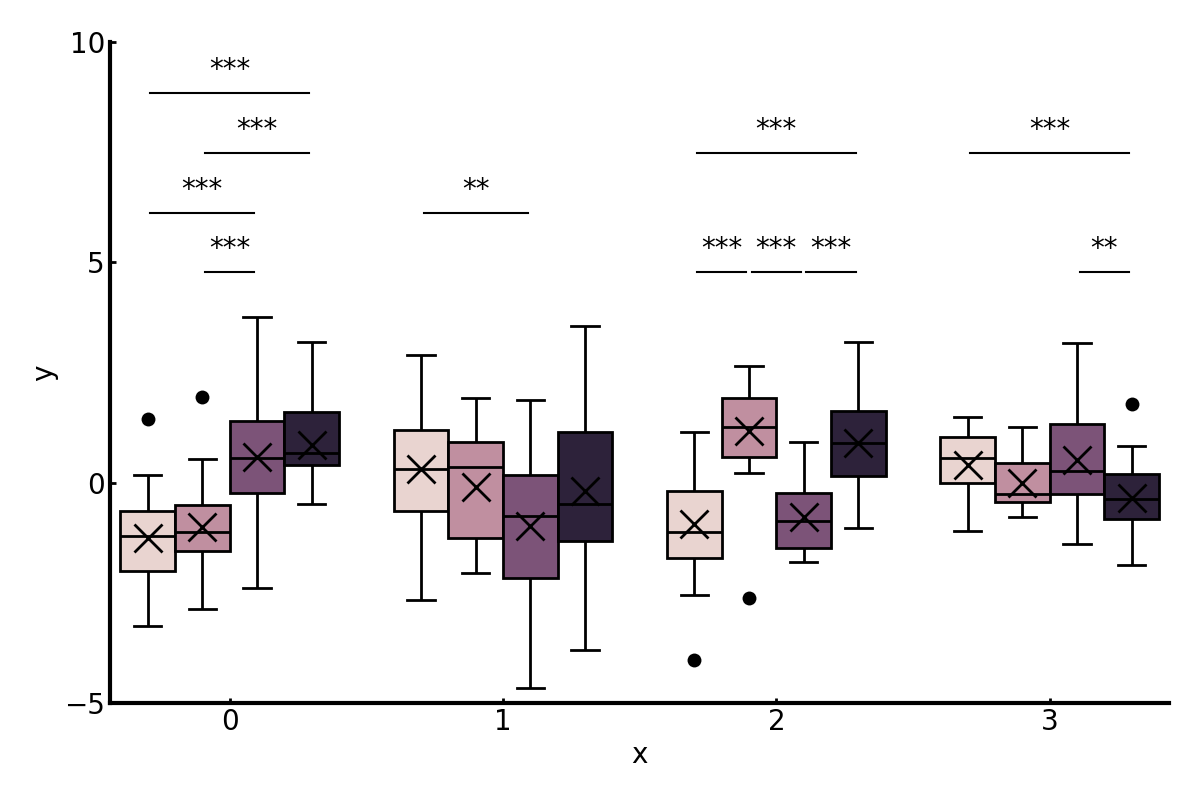
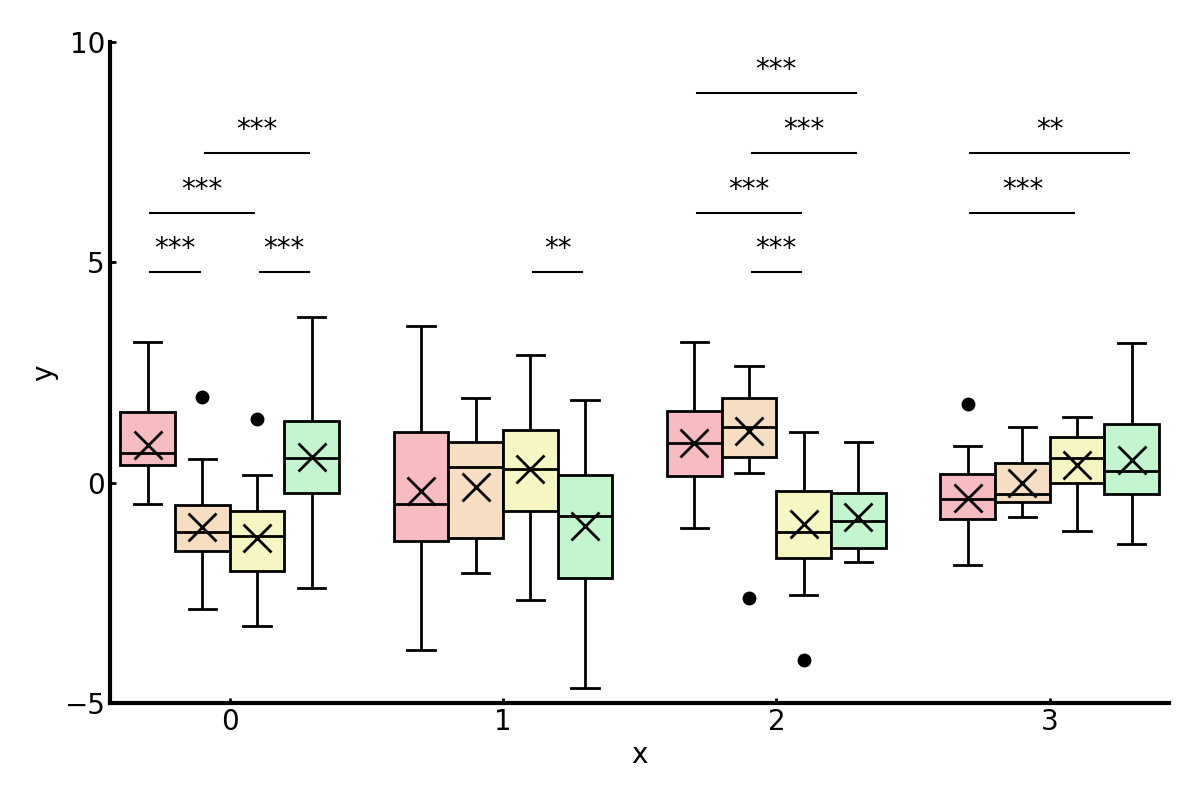
add functions

diff --git a/plot.py b/plot.py
@@ -38,14 +38,7 @@ class Stat:
         self.stat_name = stat_name
         self.adjust_name = adjust_name
         self.stat_mark = stat_mark
-
-    def get_unigue(self, df, i, sort=True):
-        i, indexes = np.unique(df[i].values, return_index=True)
-        indexes = np.argsort(indexes)
-        if sort:
-            return i[indexes]
-        else:
-            return i
+        
     def sort(self, l_hues):
         combinations = list(itertools.combinations(l_hues, 2))
         sorted_combinations = sorted(combinations, key=lambda pair: abs(pair[0] - pair[1]))
@@ -102,14 +95,13 @@ class Stat:
         return adjusted_points
 
     def calc(self, df, x, y, hue, width=0.8):
-        xs = self.get_unigue(df, x, sort=False)
-        hues = self.get_unigue(df, hue, sort=False)
+        xs = get_unigue(df, x, sort=True)
+        hues = get_unigue(df, hue, sort=True)
         n_hue = len(hues)
         l_hues = np.arange(n_hue)
         c_hues = self.sort(l_hues)
 
         l_p = []
-
         for i, name_x in enumerate(xs):
             for i1, i2 in c_hues:
                 df_tmp = df[df[x] == name_x].copy()
@@ -134,7 +126,16 @@ class Stat:
                 i_mark +=1
         
         return self.adjust_level(annot_stat)
-        
+
+def get_unigue(df, i, sort=True):
+    i, indexes = np.unique(df[i].values, return_index=True)
+    i = np.array([str(s_i) for s_i in i])
+    indexes = np.argsort(indexes)
+    if sort:
+        return i[indexes]
+    else:
+        return i
+
 
 def lookup_p(p, mark):
     if p < 0.001:
@@ -221,11 +222,20 @@ class PLOT:
         if y_const is not None:
             ax.axhline(y=y_const, c="b", linewidth=3)
         
+        xs = get_unigue(df, x, sort=True)
+
+        hue_order = None
+        if hue is not None:
+            hue_order = get_unigue(df, hue, sort=True)
+        df[x] = df[x].astype(str)
+        df[hue] = df[hue].astype(str)
+        
         if kind !="|":
             x, y = y, x
+            xs = None
 
         sns.set_palette(color)
-        sns.boxplot(x=x, y=y, data=df, hue=hue, ax=ax, linewidth=2, width=0.8,
+        sns.boxplot(x=x, y=y, data=df, hue=hue, order=xs, hue_order=hue_order, ax=ax, linewidth=2, width=0.8, 
                         showmeans=True,
                         flierprops=dict(marker='o',
                                         markersize=10,
@@ -301,14 +311,23 @@ class PLOT:
         if y_const is not None:
             ax.axhline(y=y_const, c="b", linewidth=3)
 
+        xs = get_unigue(df, x, sort=True)
+
+        hue_order = None
+        if hue is not None:
+            hue_order = get_unigue(df, hue, sort=True)
+        df[x] = df[x].astype(str)
+        df[hue] = df[hue].astype(str)
+        
         if kind !="|":
             x, y = y, x
+            xs = None
         
         sns.set_palette(color)
         if stacked:
             df.plot(kind="bar", stacked=stacked, ax=ax, color=color)
         else:
-            sns.barplot(x=x, y=y, data=df, hue=hue, ax=ax, errorbar=errorbar, capsize=0.05)
+            sns.barplot(x=x, y=y, data=df, hue=hue, ax=ax, order=xs, hue_order=hue_order, errorbar=errorbar, capsize=0.05)
 
         ax = self.range(ax,xticks=xticks, yticks=yticks, zero_start=zero_start)
 

diff --git a/test.py b/test.py
@@ -11,8 +11,9 @@ if __name__ == "__main__":
     plot = PLOT(save_mode=["png"], figsize=(12,8))
 
     df = plot.convert(df, hue="target")
+    color = ["#FFB3BA", "#FFDFBA", "#FFFFBA", "#BAFFC9"]
 
-    plot.box(df, "pic/adjust", hue="target", yticks=[-5,0,5,10])
+    plot.box(df, "pic/adjust", hue="target", yticks=[-5,0,5,10], color=color)
 
     # iris dataset
     df = pd.read_csv("https://gist.githubusercontent.com/netj/8836201/raw/6f9306ad21398ea43cba4f7d537619d0e07d5ae3/iris.csv")
